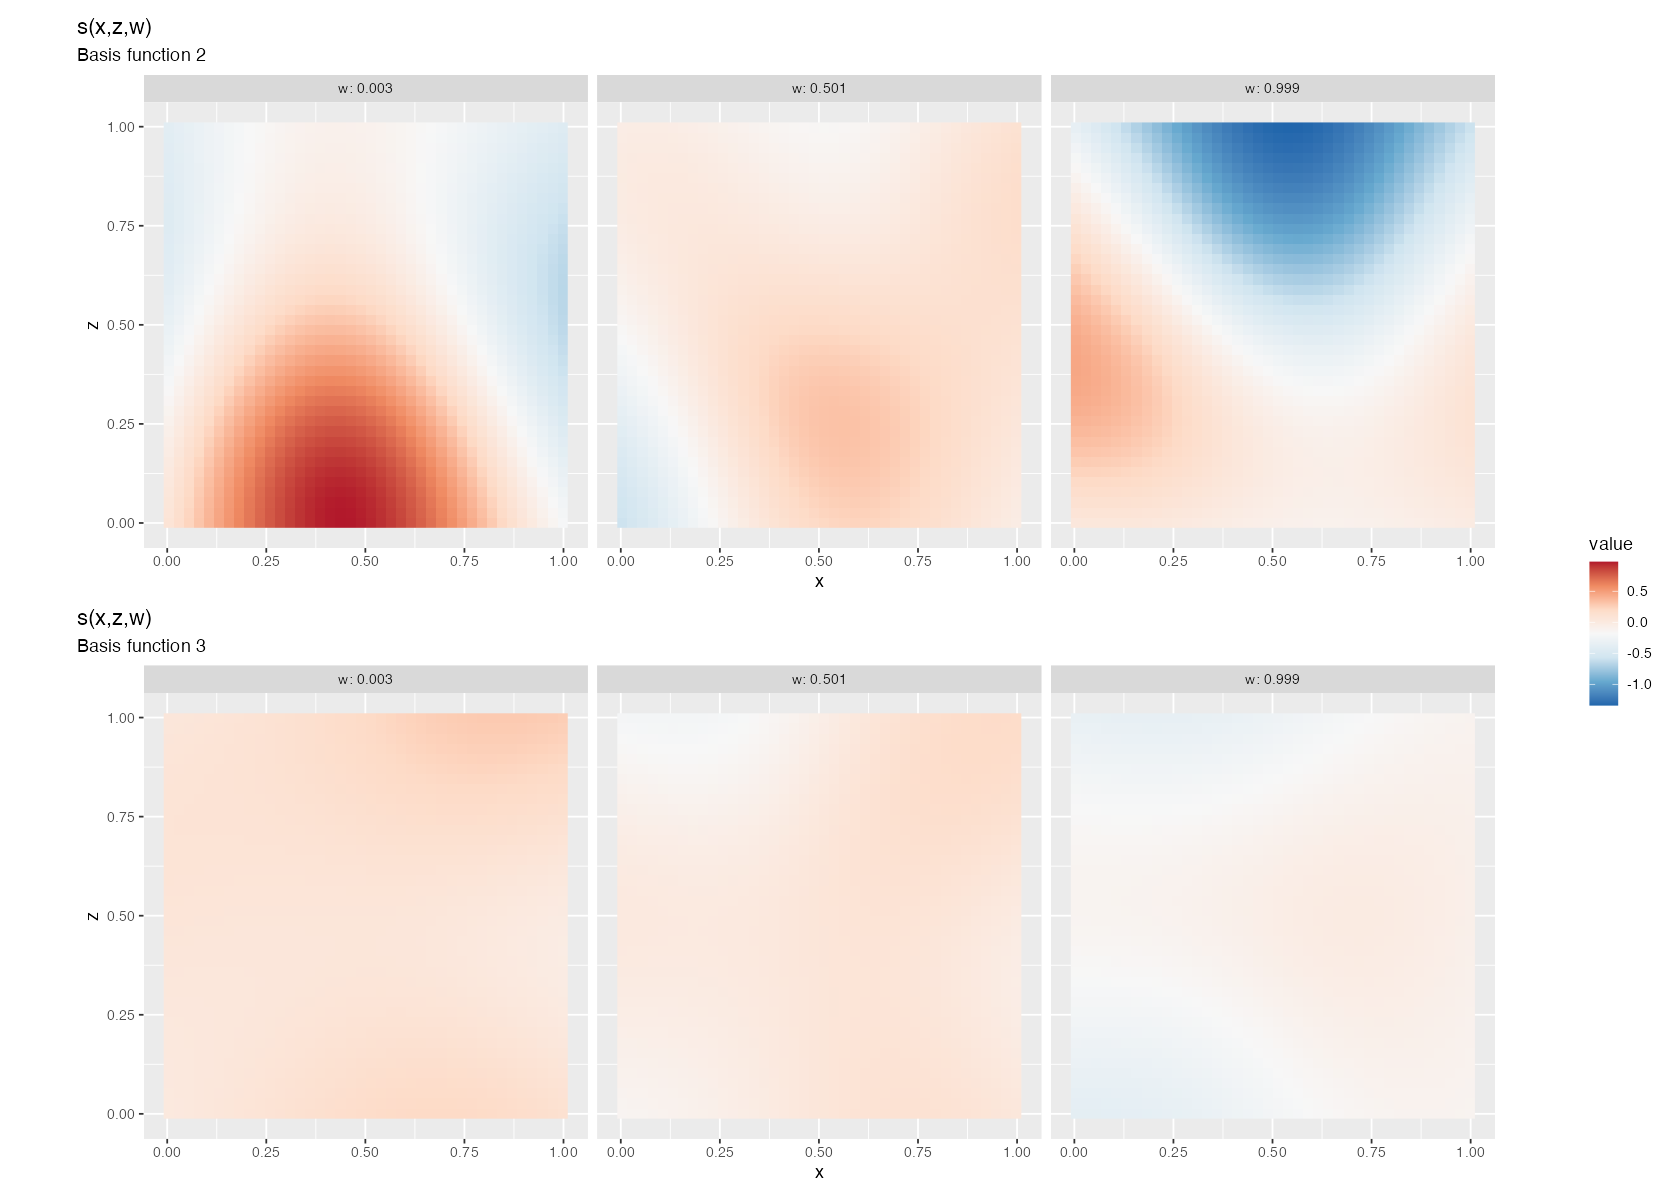
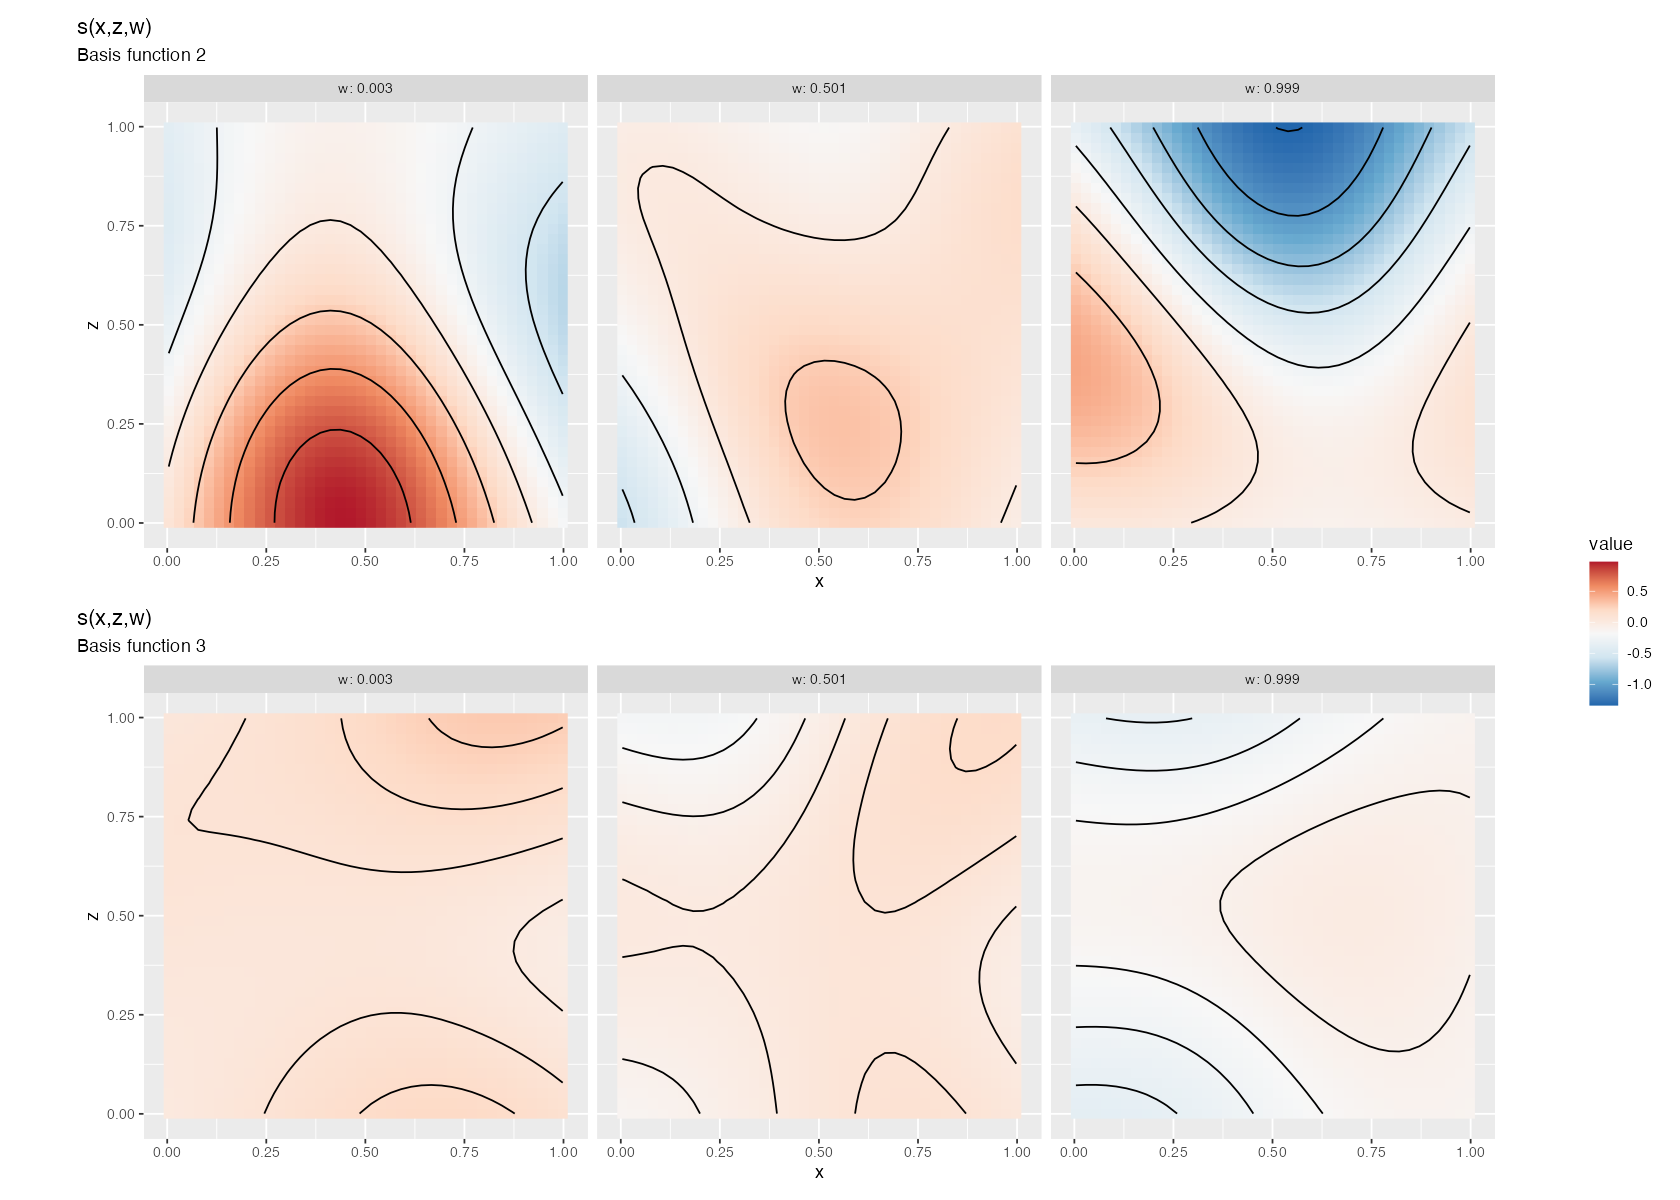
Draw contours on basis surfaces by default
Match draw.gam() and document the changed default under User visible changes. Keep constant surfaces and slices without contour levels visible without warnings, while retaining ggplot2 contour calculations. Update regression tests and example figures.

diff --git a/NEWS.md b/NEWS.md
@@ -2,6 +2,10 @@
 
 ## User visible changes
 
+* `draw.basis()` now draws contour lines on surface plots by default
+  (`contour = TRUE`), matching `draw.gam()`. Use `contour = FALSE` to restore
+  the previous appearance.
+
 * Plot aesthetic arguments for colours, opacity and line widths are deprecated
   in favour of ggplot2 component themes (#215). Existing default appearances are
   unchanged, and explicitly supplied arguments remain fixed overrides during
